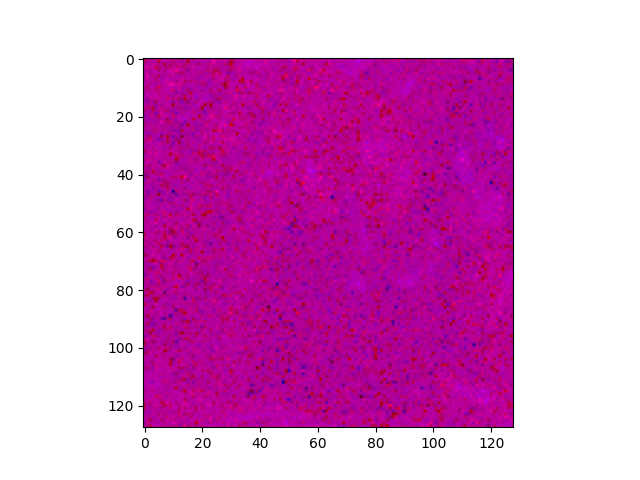
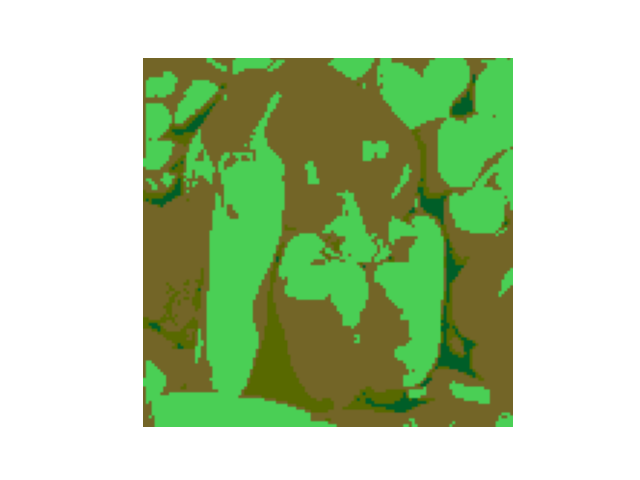
Mijn poging

diff --git a/assignment_3/exercise_pso/pso_clustering.py b/assignment_3/exercise_pso/pso_clustering.py
@@ -1,6 +1,7 @@
 import numpy as np
 import matplotlib.pyplot as plt
 from PIL import Image
+from pso import quantize_image
 
 #HUH WAT WERKT HIER NIET????
 input_img = np.array(Image.open("image.png"))
@@ -8,6 +9,55 @@ input_img = np.array(Image.open("image.png"))
 def fitness(particle, image, i):
     original_pixel = image.reshape(-1, 3)[i]
     return np.sum((original_pixel - particle) ** 2)
+
+def fitness_image(particle, image):
+    image = image.reshape(-1, 3)
+    particle = particle.reshape(-1, 3)
+    return np.sum((image - particle) ** 2)
+
+def pso_color_quantization_new(image, w, a1, a2):    
+    particles = np.random.randint(0, 256, (100, 4, 3))
+    velocities = np.zeros_like(particles)
+    local_best = np.zeros_like(particles)
+    global_best = np.zeros((4, 3))
+    
+    global_best_fitness = np.inf
+    repeat = 0
+
+    while global_best_fitness > 4274085 and repeat < 5:
+        improved = False
+        
+        for i in range(len(particles)):
+            r1 = np.random.uniform(0, 1, 3)
+            r2 = np.random.uniform(0, 1, 3)
+            velocities[i] = (w * velocities[i] + a1 * r1 * (local_best[i] - particles[i]) + a2 * r2 * (global_best - particles[i]))
+            velocity_clamp = 50 
+            velocities[i] = np.clip(velocities[i], -velocity_clamp, velocity_clamp)
+            
+        for i in range(len(particles)):
+            new_particle = np.clip(particles[i] + velocities[i], 0, 255)
+            new_fitness = fitness_image(image, quantize_image(image, new_particle))
+            old_fitness = fitness_image(image, quantize_image(image, particles[i]))
+            
+            if new_fitness < old_fitness:   
+                local_best[i] = new_particle
+                
+            if new_fitness < global_best_fitness:
+                global_best = new_particle
+                global_best_fitness = new_fitness
+                improved = True
+            
+            particles[i] = new_particle
+        
+        if improved:
+            repeat = 0
+        else:
+            repeat += 1
+            
+        print(global_best_fitness)
+        
+    return quantize_image(image, global_best)
+
 
 def pso_color_quantization(image, w, a1, a2):
     pixels = image.reshape(-1, 3)
@@ -43,9 +93,6 @@ def pso_color_quantization(image, w, a1, a2):
 
     return particles
         
-     
-
-
-particles = pso_color_quantization(input_img, 0.73, 1.5, 1.5)
+particles = pso_color_quantization_new(input_img, 0.73, 1.5, 1.5)
 plt.imshow(particles.reshape(input_img.shape))
 plt.savefig("output.png")
